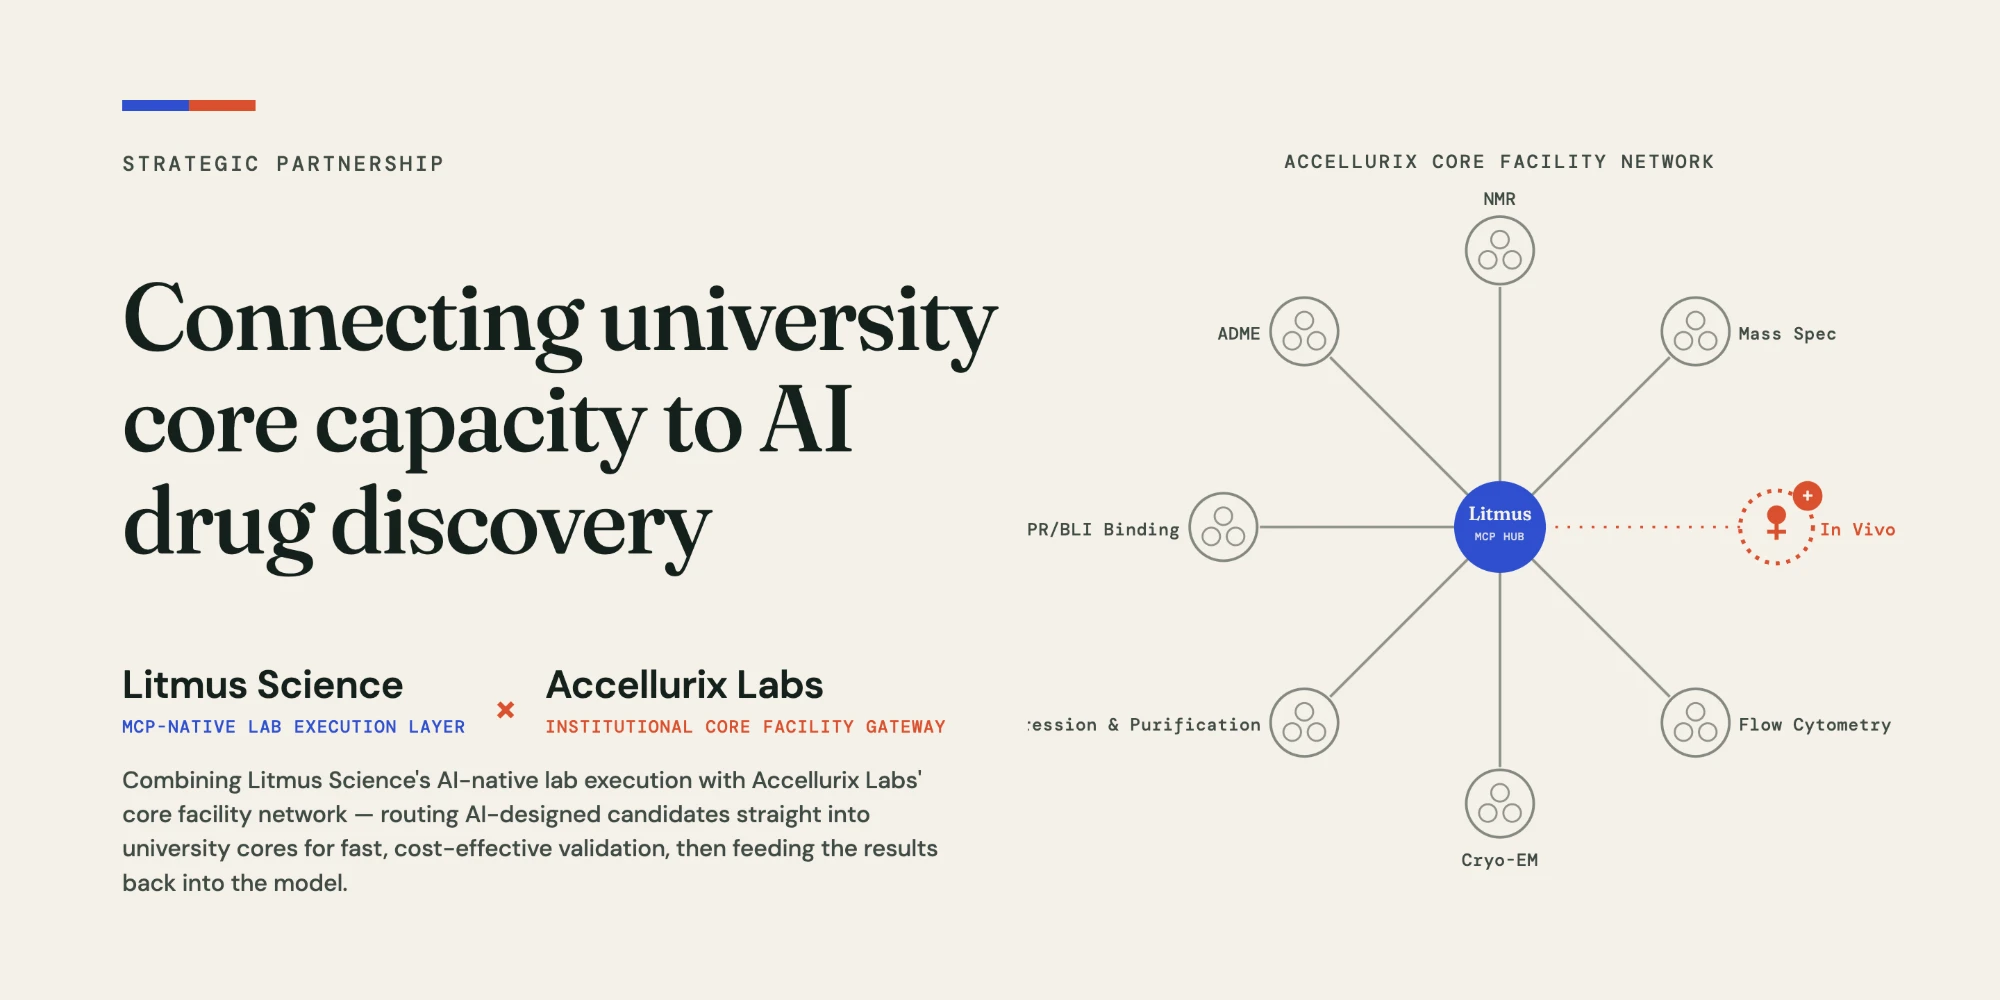
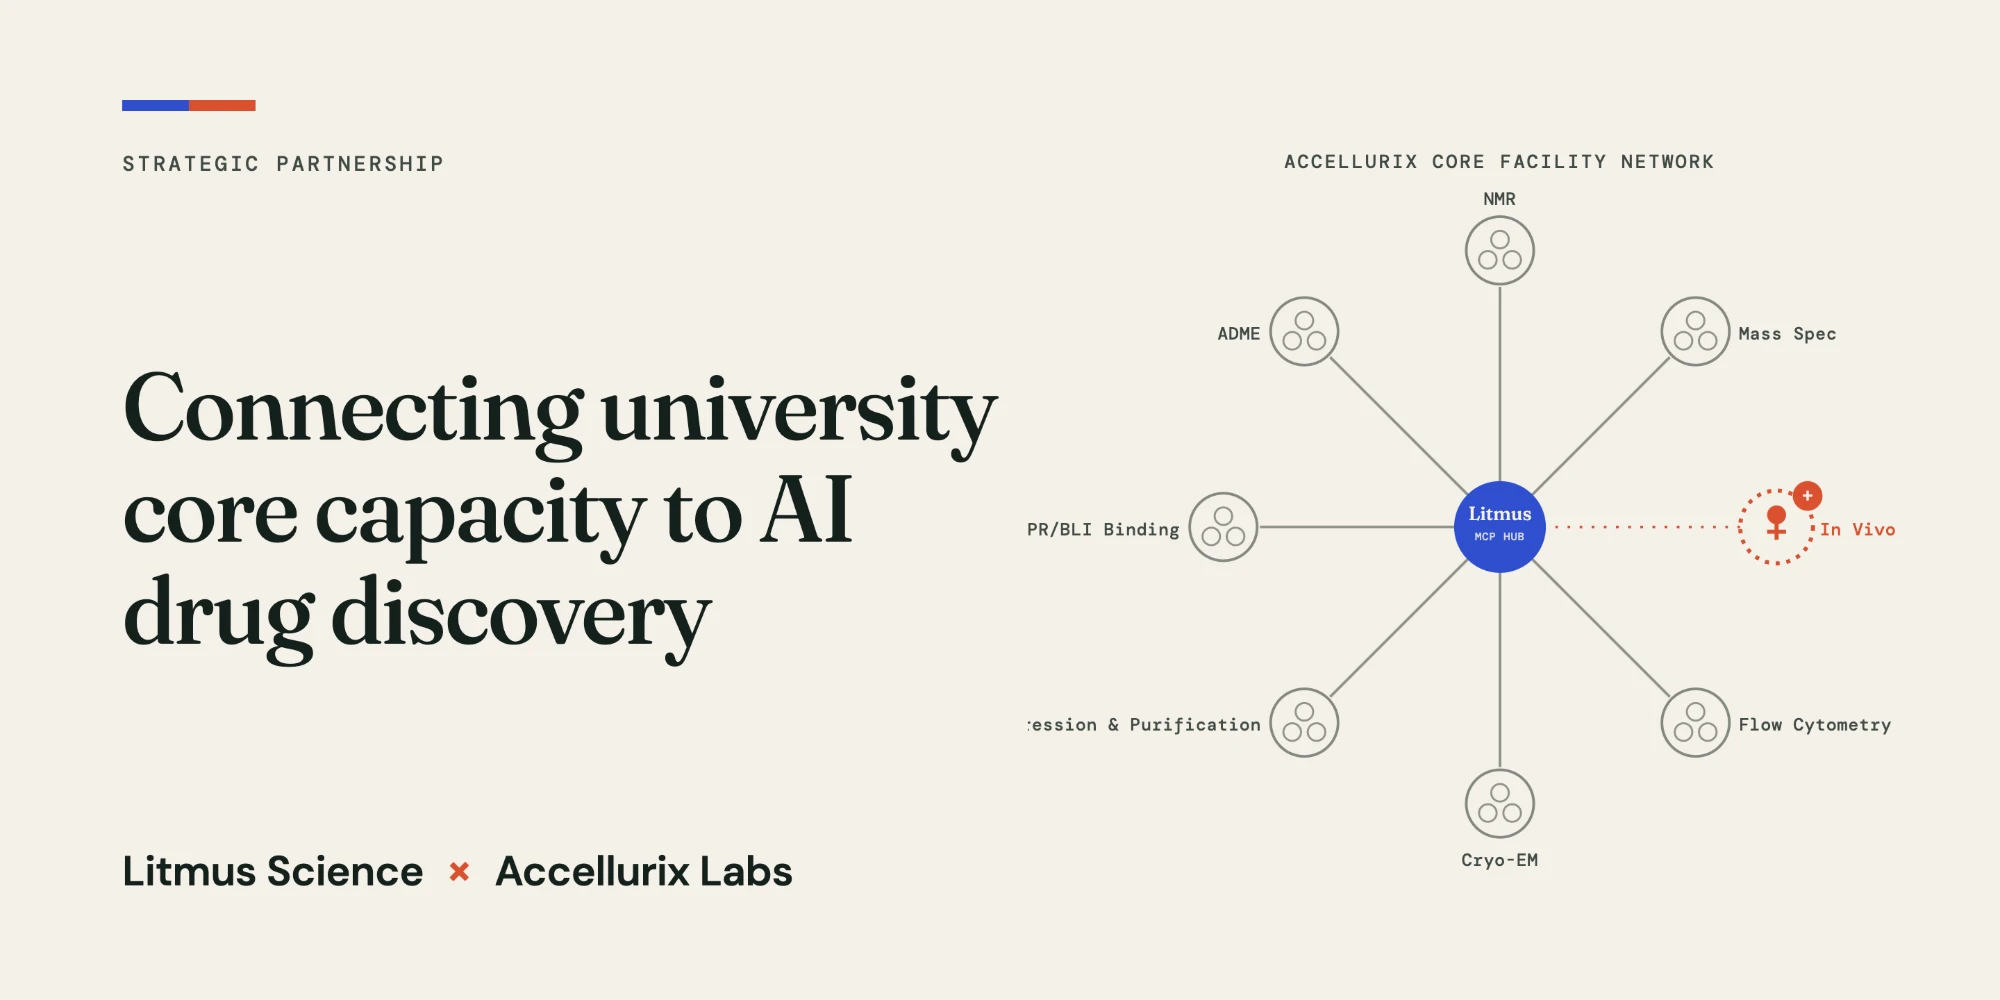
Swap in the updated Accellurix partnership header image
Replaces the header graphic and regenerates the padded 1200x630 social
preview from it. Alt text updated to describe the new graphic.

Changed region(s): [[0.062, 0.279, 0.496, 0.744], [0.062, 0.775, 0.465, 0.899]]

diff --git a/blog/litmus-accellurix-labs-partnership.html b/blog/litmus-accellurix-labs-partnership.html
@@ -114,7 +114,7 @@
 
             <section class="article-figure">
                 <div class="container">
-                    <img src="images/litmus-accellurix-partnership.webp" alt="Diagram: Litmus Science, an MCP-native lab execution layer, and Accellurix Labs, an institutional core facility gateway, connecting university core capacity to AI drug discovery. The Litmus MCP hub links to Accellurix core facilities including NMR, mass spec, ADME, SPR/BLI binding, expression and purification, cryo-EM, flow cytometry, and in vivo." width="2000" height="1000" fetchpriority="high">
+                    <img src="images/litmus-accellurix-partnership.webp" alt="Strategic partnership: Litmus Science and Accellurix Labs, connecting university core capacity to AI drug discovery. The Litmus MCP hub links to the Accellurix core facility network: NMR, mass spec, ADME, SPR/BLI binding, expression and purification, cryo-EM, flow cytometry, and in vivo." width="2000" height="1000" fetchpriority="high">
                 </div>
             </section>
 
